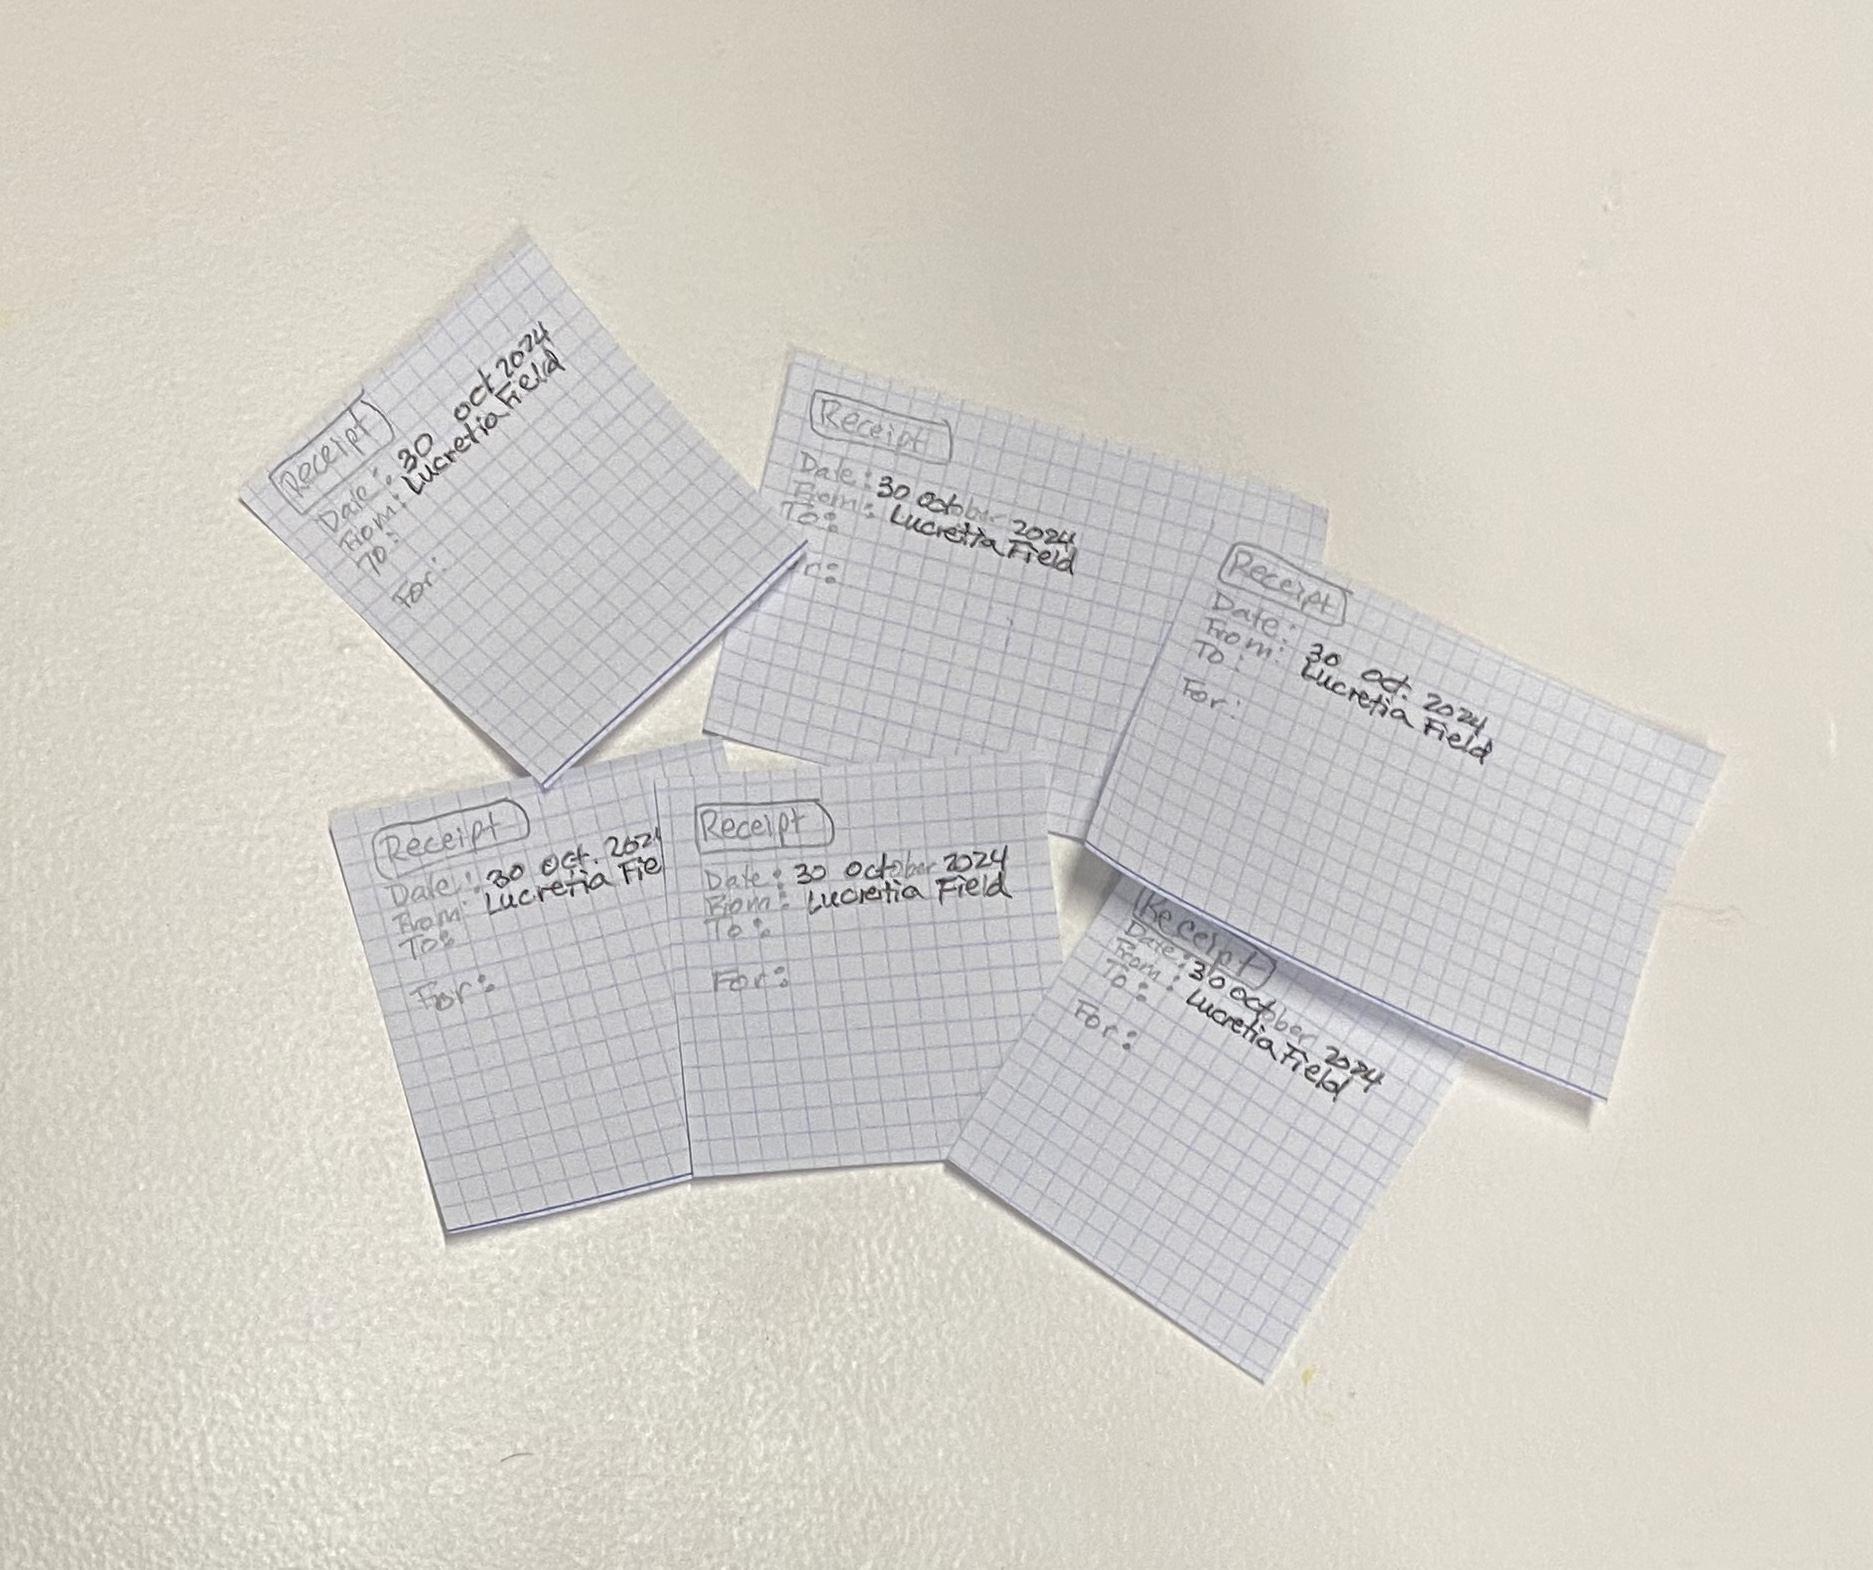
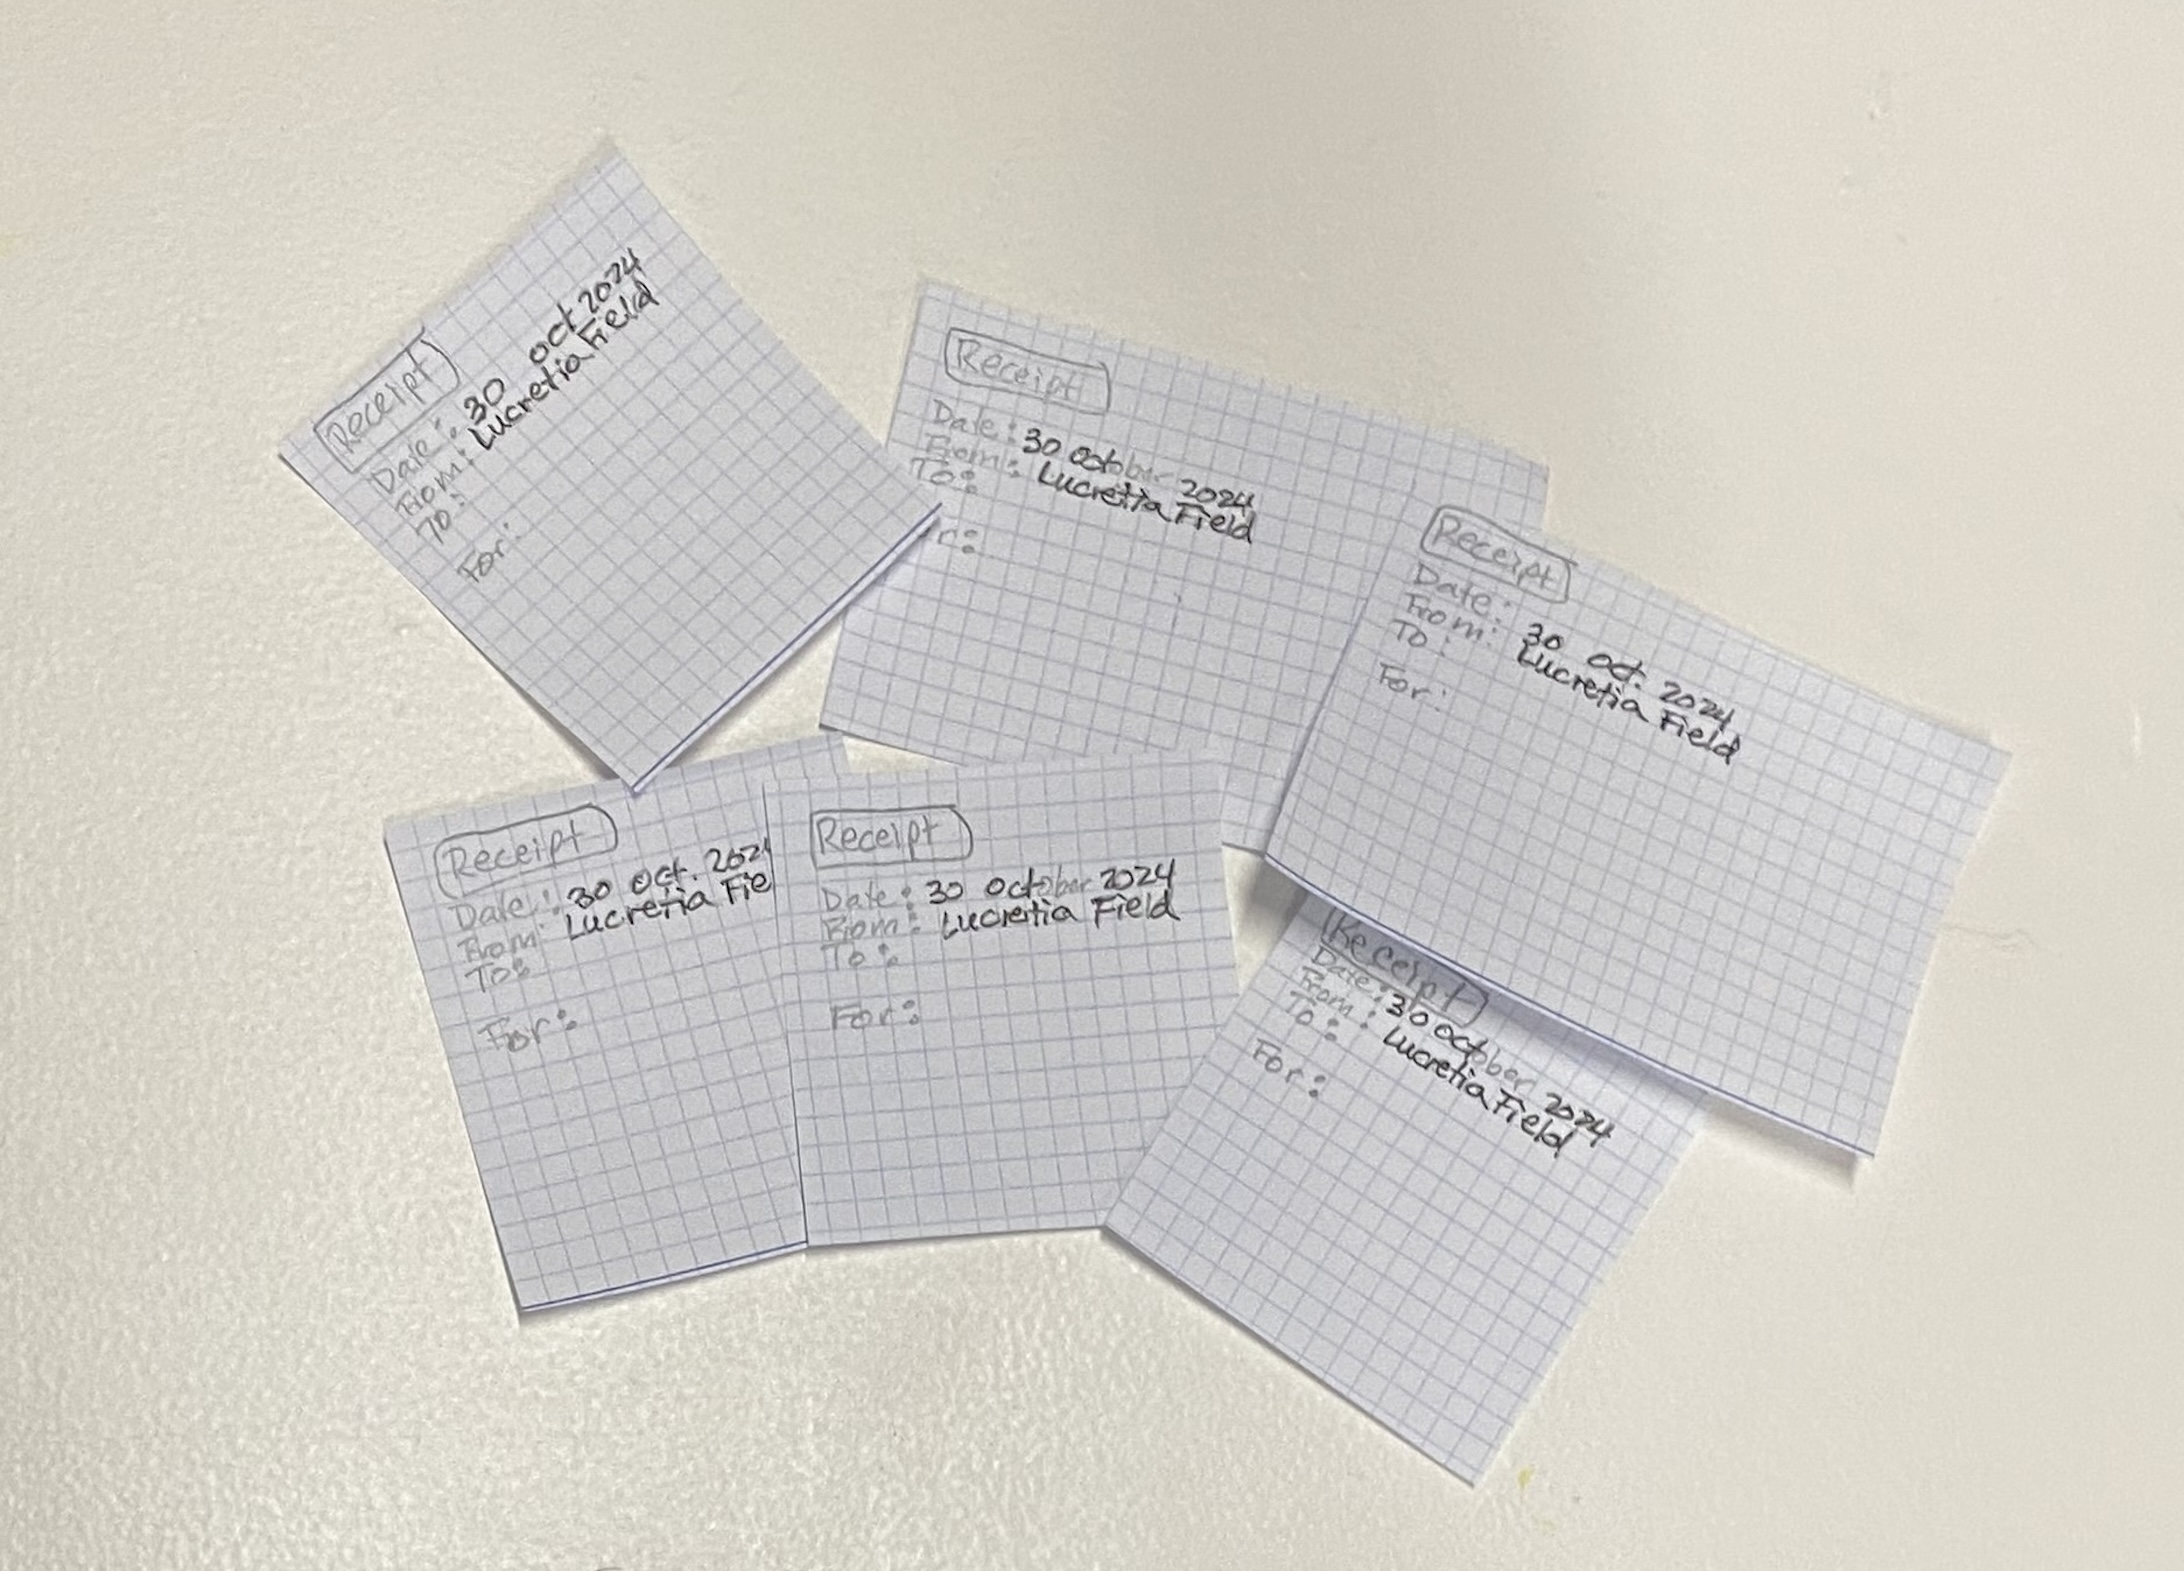
updates to information as a subject

diff --git a/docs/term1/ownIdeas.md b/docs/term1/ownIdeas.md
@@ -39,8 +39,6 @@ Video 02
 -->
 
 
-
-
 ## Prosthetic 'to become something else (non-human)'
 
 The second prosthetic we were asked to make was inspired by the work of Thomas Thwaites who spoke to our class over video call about his work, specifically about his efforts to become a goat. 
@@ -51,18 +49,20 @@ For this prompt, I looked back at my previous brainstorm session and decided to 
 ![Network02](../images/term1/lwyoi/network02.jpg){ align=left width="30%" }
 ![Network03](../images/term1/lwyoi/network03.jpg){ align=left width="30%" }
 
+The following video contextualizes the network prosthetic as a visualization of the networks that already exist. Nature has so many networks, from mycelium that allows fungi to transfer information, nutrients, and water to bees that use pheromones to communicate across distance. Humans also have systems in place to communicate with one another across distance, but what if we could communicate like fungi? With visible, tangible connections allowing us to see the influence on those in our community when we pull a tread, what could we learn about ourself and those around us? 
 
-<video src="https://github.com/user-attachments/assets/2562c26d-0a25-4bab-81a0-f7f4f2f14a25" controls="controls" style="max-width: 730px;">
-</video>
+<figure markdown="span">
+    <video src="https://github.com/user-attachments/assets/80c882ee-40c1-48df-990f-13cc7cbc51cb" controls="controls" style="max-width: 45%;"></video> 
+    <figcaption></figcaption>
+</figure>
 
-<video src="https://github.com/user-attachments/assets/80c882ee-40c1-48df-990f-13cc7cbc51cb" controls="controls" style="max-width: 730px;">
-</video>
+In the next video, we can see the affects on a single, centralized node when another node takes advantage of the power each individual has. It serves as a reminder to care for our communities and protect the connections we have.
 
+<figure markdown="span">
+    <video src="https://github.com/user-attachments/assets/2562c26d-0a25-4bab-81a0-f7f4f2f14a25" controls="controls" style="max-width: 730px;"></video>
+    <figcaption></figcaption>
+</figure>
 
-<!-- 
-Video 01 
-Video 02 
--->
 
 
 ## Prosthetic 'to judge/be judged' 
@@ -125,6 +125,33 @@ For some reason, I kept coming back to the word, 'commodity' from my list. I kep
 
     [Wikipedia "Commodity"](https://en.wikipedia.org/wiki/Commodity) 
 
+I decided that the way to track how I was doing was to give receipts for each transaction I had. So, my prosthetic for influencing how I was judged was a few pieces of paper: four with personal information like my name, date of birth, former and current addresses, phone numbers, and websites and social media and six blank templates for receipts. I figured that giving out information that is essentially public information in exchange for things that might traditionally be exchanged for money wouldn't work so well when making exchanges with individuals. Corporations who have ways to do things with that information will happily exchange their services for details about ourselves, but individuals don't tend to have much need for that kind of information. So, I made fewer information sheets than I did receipts and how it turned out, my theory was correct. 
+
+
+<div style="page-break-after: always;"></div>
+
+![Receipts](../images/term1/lwyoi/subject/blankReceipts.jpeg){ align=left width="45%" }
+
+![Information](../images/term1/lwyoi/subject/myInfo.jpeg){ align=right width="45%" }
+
+
+Below are the photos of my receipts and the physical items I collected during my time as a subject. 
+
+
+??? abstract "My Prosthetics and Exchanges" 
+
+    | First Exchange Receipt | Second Exchange Receipt | Second Exchange Evidence | 
+    |--------|--------|--------|
+    |![Chiara](../images/term1/lwyoi/subject/receiptChiara.jpg){ align=left } |![Flavio](../images/term1/lwyoi/subject/receiptFlavio.jpg){ align=left } | ![Flavio2](../images/term1/lwyoi/subject/flavio.jpg){ align=left }|
+    | **Third Exchange Receipt** | **Third Exchange Evidence** | **Fourth Exchange Receipt** |
+    | ![Mariana](../images/term1/lwyoi/subject/receiptMariana.jpg){ align=left }| ![Payment](../images/term1/lwyoi/subject/paymentStation.jpg){ align=left } | ![Carlos](../images/term1/lwyoi/subject/receiptCarlos.jpg){ align=left } |
+    | **Fifth Exchange Receipt** | **Fifth Exchange Evidence** | **Sixth Exchange Receipt** |
+    | ![Saúl](../images/term1/lwyoi/subject/receiptSaul.jpg){ align=left }| ![Saúl2](../images/term1/lwyoi/subject/saul.jpg){ align=left }| ![Mateo](../images/term1/lwyoi/subject/receiptMateo.jpg){ align=left } |
+    | **Physical Things I collected** | **Additional things I collected**| |
+    | ![Summary](../images/term1/lwyoi/subject/physicalGoods.jpg){ align=left }| An attempt at being taught the phrase "where is the supermarket?" in Portuguese (I retained none of the phrase) and the promise of a chance to practice Spanish. | |
+
+
+
 <!--
 Video 01 
 Video 02 
@@ -133,3 +160,8 @@ Video 02
 
 ## Reflection
 
+This week was an intense week of recalibrating my definition of 'prosthetic' and re-contextualizing my thoughts about design. In particular, the presentation by Thomas Thwaites was a good reminder to truly embrace the first person perspective of design and to commit fully to experiences. This week felt freeing, by pushing me to break out of the box of my preconceived ideas about design and even this program. 
+
+The detective game, in particular felt freeing for me. I started having conversations with people in more open ways than I might have before, in more normal situations. I have been feeling nervous about my lack of Spanish fluency when it comes to interacting with local communities. With this exercise, there was no way that I was going to be able to communicate what I was hoping to with my knowledge of Spanish, so while this was still a point of anxiety, it gave me permission to enter into interactions with humility and a direct request, in English. Additionally, I have been feeling stuck in my head about a lot of the projects for this course as well as getting bogged down in to-do lists and overthinking. In this way, I think this week was very useful at breaking down my inhibitions and forcing me to act without thinking in a valuable way. I think it is ironic that in my brainstorm notes for how I wanted to be judged, I included wanting to be seen 'as someone who acts on instinct/without overthinking' and yet I had a page full of many notes that could easily be considered overthinking. This week, the speed with which we were expected to prototype required getting out of my head and just starting, just creating.
+
+<!-- For the actual prosthetic for the detective game, it was really interesting to explore the semantics of  -->
